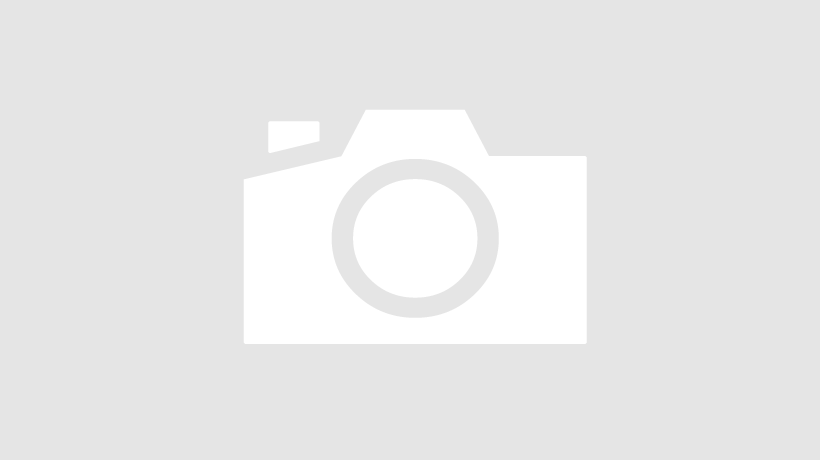
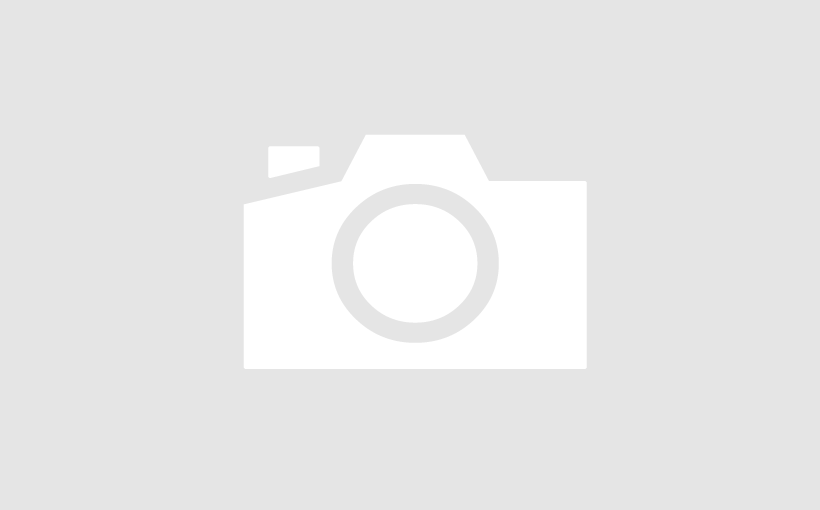
added own template function to display slider images

diff --git a/css/flexslider.css b/css/flexslider.css
@@ -89,13 +89,20 @@ html[xmlns] .zeeflexslider .zeeslides {
 	max-height: 2000px;
 }
 
-.post-slider .zeeslide .slide-image {
-	width: 100%;
-	height: auto;
-	max-width: 820px;
-	max-height: 460px;
-	vertical-align: top;
+.post-slider .zeeslide .slide-image-wrap {
 	margin: 0;
+	padding: 0;
+	background: #e5e5e5;
+}
+
+.post-slider .zeeslide .slide-image {
+	margin: auto;
+	padding: 0;
+	max-width: 100%;
+	max-height: 510px;
+	width: auto;
+	height: auto;
+	vertical-align: top;
 }
 
 .post-slider .zeeslide .slide-content {

diff --git a/inc/slider.php b/inc/slider.php
@@ -47,6 +47,37 @@ function admiral_slider_excerpt_length( $length ) {
 }
 
 
+if ( ! function_exists( 'admiral_slider_image' ) ) :
+	/**
+	 * Displays the featured image of the post as slider image
+	 *
+	 * @param string $size Post thumbnail size.
+	 * @param array  $attr Post thumbnail attributes.
+	 */
+	function admiral_slider_image( $size = 'post-thumbnail', $attr = array() ) {
+
+		// Display Post Thumbnail.
+		if ( has_post_thumbnail() ) : ?>
+
+			<a class="slide-image-link" href="<?php the_permalink(); ?>" rel="bookmark">
+				<figure class="slide-image-wrap">
+					<?php the_post_thumbnail( $size, $attr ); ?>
+				</figure>
+			</a>
+
+		<?php else : ?>
+
+			<a class="slide-image-link" href="<?php the_permalink(); ?>" rel="bookmark">
+				<figure class="slide-image-wrap">
+					<img src="<?php echo get_template_directory_uri(); ?>/images/default-slider-image.png" class="slide-image default-slide-image wp-post-image" />
+				</figure>
+			</a>
+
+		<?php endif;
+	}
+endif;
+
+
 if ( ! function_exists( 'admiral_slider_meta' ) ) :
 	/**
 	 * Displays the date and author on slider posts

diff --git a/template-parts/content-slider.php b/template-parts/content-slider.php
@@ -9,16 +9,7 @@
 
 <li id="slide-<?php the_ID(); ?>" class="zeeslide clearfix">
 
-	<?php // Display Post Thumbnail or default thumbnail.
-	if ( has_post_thumbnail() ) :
-
-		the_post_thumbnail( 'post-thumbnail', array( 'class' => 'slide-image' ) );
-
-	else : ?>
-
-		<img src="<?php echo get_template_directory_uri(); ?>/images/default-slider-image.png" class="slide-image default-slide-image wp-post-image" alt="default-image" />
-
-	<?php endif;?>
+	<?php admiral_slider_image( 'post-thumbnail', array( 'class' => 'slide-image' ) ); ?>
 
 	<div class="slide-content clearfix">
 
